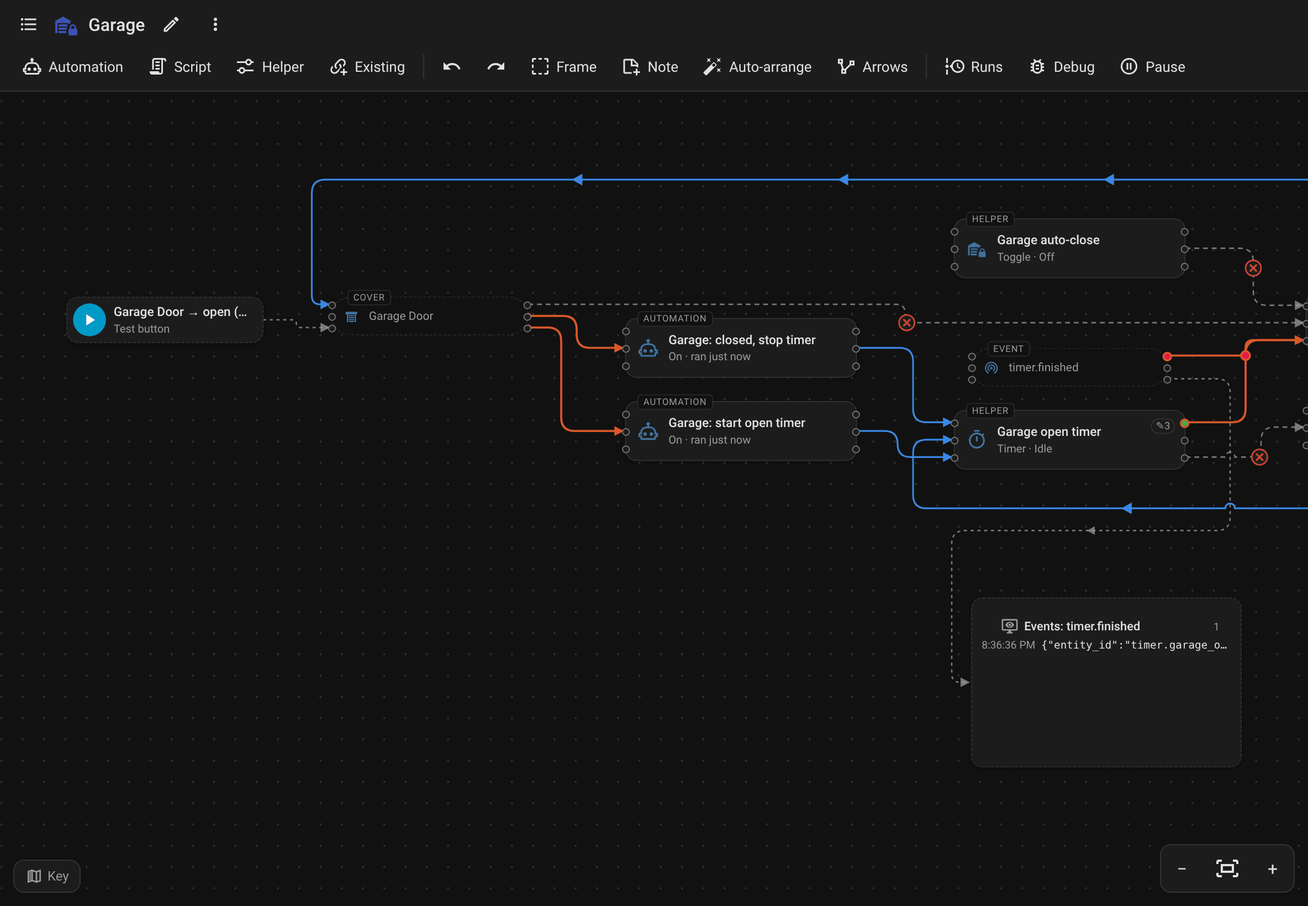
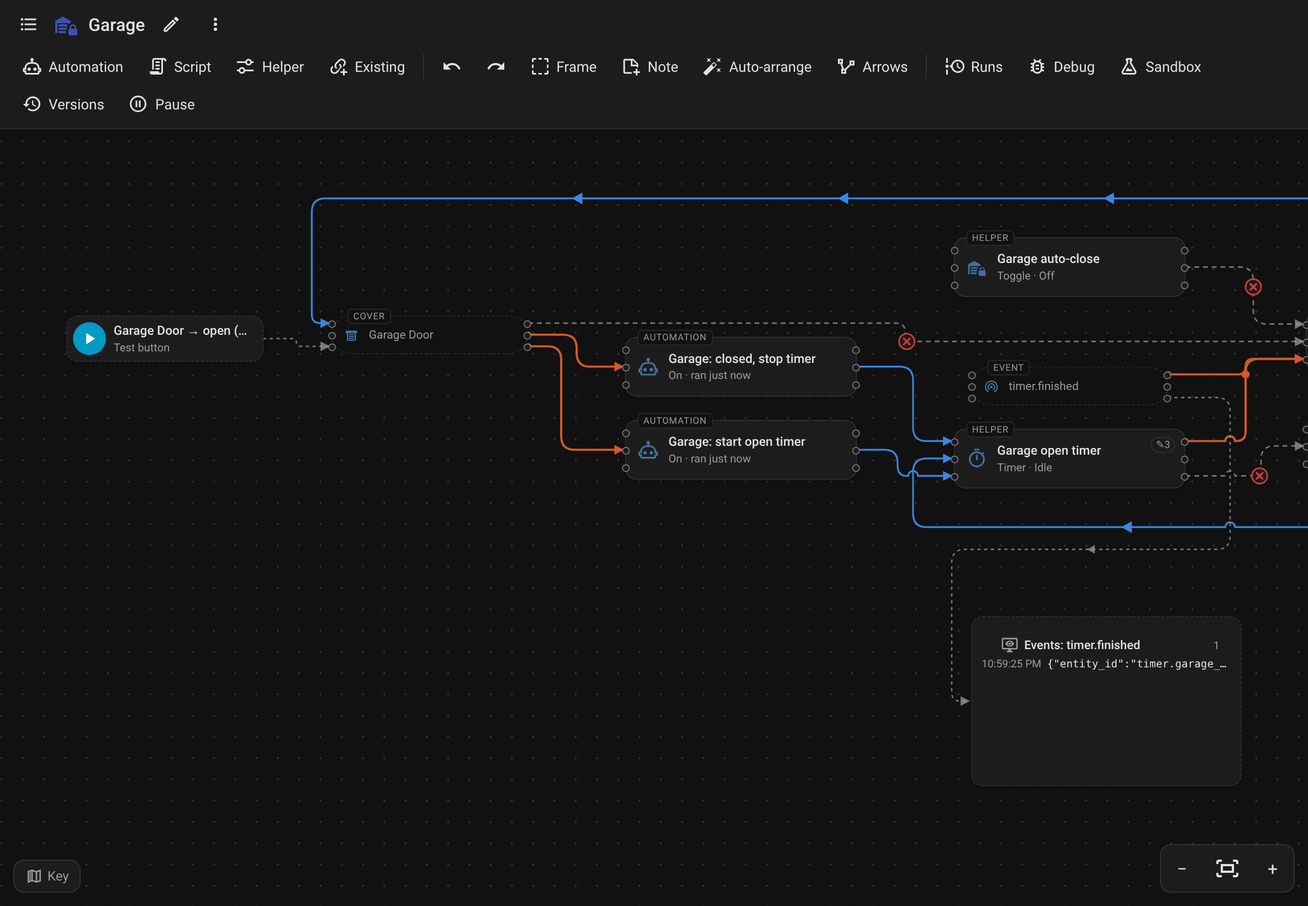
README: new pictures (sandbox flow, versions, top to bottom) and text; 0.8.1 Key fix
All README screenshots retaken from the demo setup. screens.js now also takes
the sandbox playing a run, a version open in a tab, and top to bottom; the
header picture is cropped to the whole function. In the Key, 'simulated
state' gets its own line with its mark (regress 0.8.1).

Claude-Session: https://claude.ai/code/session_01UsJvN5mwHgCutyzRGZv9XT

diff --git a/tests/e2e/screens.js b/tests/e2e/screens.js
@@ -64,12 +64,18 @@ const frame = (page, keys, kmax, room = 0) => el(page, (b, [keys, kmax, room]) =
 const list = (page, open) => el(page, (b, o) => { b._data.ui.list = o; b._renderList(); }, open);
 const key = (page, open) => el(page, (b, o) => { b._data.ui.legend = o; b._renderLegend(); }, open);
 const members = (page) => el(page, (b) => [...b._model.nodes.values()].filter((n) => n.kind === 'member').map((n) => n.key));
+// every box on the board, outside items too
+// the heart of the garage: the timer running out, "left open" checking auto-close, and the script closing the door
+const chain = (page) => el(page, (b, ks) => ks.concat([...b._model.nodes.keys()].filter((k) => k.startsWith('event:timer.finished'))), [TIMER, LEFT, AUTO, CLOSE]);
+const allBoxes = (page) => el(page, (b) => [...b._model.nodes.values()].filter((n) => n.kind !== 'tool').map((n) => n.key));
+// a narrower drawer, so the board beside it stays big enough to read (null: back to its own width)
+const drawerWidth = (page, w) => el(page, (b, w) => { b._$.drawer.style.width = w ? w + 'px' : ''; b._fitLitbar(); }, w);
 
 (async () => {
   fs.mkdirSync(OUT, { recursive: true });
   const browser = await chromium.launch();
   const { ctx, page } = await session(browser, 'owner', { viewport: { width: W, height: H }, scale: 2 });
-  page.allowFail = [/^trace\/get$/];
+  page.allowFail = [/^trace\/get$/, /^automation\/config$/];
   await page.goto(BASE + '/');
   await ready(page);
   await reset(page);
@@ -97,9 +103,22 @@ const members = (page) => el(page, (b) => [...b._model.nodes.values()].filter((n
   await key(page, false);
   await until(() => el(page, (b) => b._cond && b._cond.size > 0), 8000);
   await page.waitForTimeout(600);
-  await frame(page, await members(page), 1.2);
+  // the whole function as wide as it goes (the list closed), cropped to the toolbar and the boxes' height
+  await list(page, false);
+  await page.waitForTimeout(400);
+  const hero = await el(page, (b, keys) => {
+    const ns = keys.map((x) => b._model.nodes.get(x)).filter(Boolean);
+    const x0 = Math.min(...ns.map((n) => n.x)), x1 = Math.max(...ns.map((n) => n.x + n.w)), y0 = Math.min(...ns.map((n) => n.y)), y1 = Math.max(...ns.map((n) => n.y + n.h));
+    const vw = b._$.vp.clientWidth, k = Math.min(1.2, (vw - 80) / (x1 - x0)), top = 70;
+    b._view = { k, x: vw / 2 - ((x0 + x1) / 2) * k, y: top - y0 * k };
+    b._applyView();
+    const vp = b._$.vp.getBoundingClientRect(), host = b.getBoundingClientRect();
+    return { x: host.x, y: host.y, width: host.width, height: vp.top - host.top + top + (y1 - y0) * k + 80 };
+  }, await allBoxes(page));
+  await page.mouse.move(W - 2, H - 2);
   await page.waitForTimeout(800);
-  await shot(page, 'board', await rect(page, null));
+  await shot(page, 'board', hero);
+  await list(page, true);
 
   // the Key: what boxes, arrows and marks mean
   await key(page, true);
@@ -204,8 +223,95 @@ const members = (page) => el(page, (b) => [...b._model.nodes.values()].filter((n
     await phone.ctx.close();
   }
 
-  // put the garage back at rest, the board without its tools, and the integration in its default mode
-  await el(page, (b) => (b._layout(b._data.ui.current).tools || []).map((t) => t.id).forEach((id) => b._delTool(id)));
+  // the board without its tools from here on
+  await el(page, (b) => { b._closeDrawer(); b._select(null); (b._layout(b._data.ui.current).tools || []).map((t) => t.id).forEach((id) => b._delTool(id)); });
+  await rest(page);
+  await page.waitForTimeout(800);
+
+  // the sandbox: auto-close on and the door opened, in the sandbox only; Next runs the clock to the timer
+  // finishing, and what that sets off plays on the board (here at its last step, the door closing)
+  if (!only || only.test('sandbox')) {
+    await fbq(page, '.tools [data-act="sandbox"]').click();
+    await fbq(page, '.modal [data-act="sbx-start"]').click({ timeout: 3000 }).catch(() => {});
+    await fbq(page, '.drawer .sbctl .sbent').waitFor({ timeout: 10000 });
+    await drawerWidth(page, 600);
+    const sbxIdle = () => until(() => el(page, (b) => (!b._sbx.busy && (!b._flow || b._flow.at === b._flow.steps.length - 1)) || null), 20000);
+    await fbq(page, '.drawer .sbent').selectOption(AUTO);
+    await fbq(page, '.drawer .sbval-sel').selectOption('on');
+    await fbq(page, '.drawer [data-act="sbx-set"]').click();
+    await sbxIdle();
+    await fbq(page, '.drawer .sbent').selectOption(DOOR);
+    await fbq(page, '.drawer .sbval-sel').selectOption('open');
+    await fbq(page, '.drawer [data-act="sbx-set"]').click();
+    await sbxIdle();
+    await fbq(page, '.drawer [data-act="sbx-next"]').click();
+    await sbxIdle();
+    await page.waitForTimeout(1200);
+    await frame(page, await chain(page), 1.1, 110);
+    await page.waitForTimeout(900);
+    await shot(page, 'sandbox', await rect(page, null));
+    await drawerWidth(page, null);
+    await fbq(page, '.litbar [data-act="lit-clear"]').click().catch(() => {});
+    await el(page, (b) => b._closeDrawer());
+    await until(() => el(page, (b) => !b._sbx || null), 8000);
+  }
+
+  // top to bottom, then back
+  if (!only || only.test('down')) {
+    await el(page, (b) => b._setDir('down'));
+    await page.waitForTimeout(800);
+    await frame(page, await allBoxes(page), 1.2);
+    await page.waitForTimeout(600);
+    await shot(page, 'down', await rect(page, '.main'));
+    await el(page, (b) => b._setDir('right'));
+    await page.waitForTimeout(600);
+  }
+
+  // versions: one saved as the test config has it, then the function grows (an automation closing the door at
+  // night, the left-open message changed) and that's saved too; the first opened in a tab shows what differs
+  if (!only || only.test('versions')) {
+    const label = await el(page, (b) => b._data.ui.current);
+    const left0 = await api(page, 'GET', 'config/automation/config/2002');
+    const save = async (name, desc) => {
+      const n = await el(page, (b) => b._$.drawer.querySelectorAll('.vlist .vrow:not(.cur)').length);
+      await fbq(page, '.drawer [data-act="ver-new"]').click();
+      await fbq(page, '.modal input[name="vname"]').fill(name);
+      await fbq(page, '.modal textarea[name="vdesc"]').fill(desc);
+      await fbq(page, '.modal [data-act="ver-save"]').click();
+      await until(() => el(page, (b, n) => b._$.drawer.querySelectorAll('.vlist .vrow:not(.cur)').length > n || null, n), 10000);
+    };
+    await fbq(page, '.tools [data-act="versions"]').click();
+    await fbq(page, '.drawer .vlist .vrow.cur').waitFor({ timeout: 10000 });
+    await drawerWidth(page, 560);
+    await save('Reminder only', 'A note after 15 minutes open; closes only with auto-close on.');
+    await api(page, 'POST', 'config/automation/config/2002', Object.assign({}, left0, { actions: left0.actions.map((a) => (a.action === 'persistent_notification.create' ? Object.assign({}, a, { data: Object.assign({}, a.data, { message: 'The garage door was left open. Auto-close will close it if it is on.' }) }) : a)) }));
+    await api(page, 'POST', 'config/automation/config/fbshot1', { alias: 'Garage: close at night', triggers: [{ trigger: 'time', at: '22:00:00' }], conditions: [{ condition: 'state', entity_id: DOOR, state: 'open' }], actions: [{ action: 'script.close_garage' }] });
+    await until(() => page.evaluate(() => !!document.querySelector('home-assistant').hass.states['automation.garage_close_at_night']) || null, 10000);
+    await ws(page, { type: 'config/entity_registry/update', entity_id: 'automation.garage_close_at_night', labels: [label] });
+    await until(() => el(page, (b) => (b._model && b._model.nodes.has('automation.garage_close_at_night')) || null), 10000);
+    await page.waitForTimeout(1000);
+    await save('Close at night', 'Closes the door at 10 pm if it is still open; new left-open message.');
+    const first = await el(page, (b) => [...b._$.drawer.querySelectorAll('.vlist .vrow:not(.cur)')].find((r) => /Reminder only/.test(r.textContent)).dataset.id);
+    await fbq(page, `.drawer [data-act="ver-open"][data-id="${first}"]`).click();
+    await until(() => el(page, (b) => (b._ver && b._model && b._$.board.classList.contains('vview')) || null), 15000);
+    await page.waitForTimeout(1200);
+    // below the version's banner
+    await frame(page, await chain(page), 1.0);
+    await el(page, (b) => { b._view.y += 40; b._applyView(); });
+    await page.waitForTimeout(800);
+    await shot(page, 'versions', await rect(page, null));
+    await drawerWidth(page, null);
+    // back to Now, the test config as it was, and no versions left
+    await fbq(page, '.vtabs .vtab').first().click();
+    await until(() => el(page, (b) => !b._ver || null), 10000);
+    await api(page, 'POST', 'config/automation/config/2002', left0);
+    await api(page, 'DELETE', 'config/automation/config/fbshot1');
+    const vs = await ws(page, { type: 'functions_board/versions', label });
+    for (const v of (vs.versions || vs || [])) await ws(page, { type: 'functions_board/version_delete', label, version_id: v.id });
+    await el(page, (b) => b._closeDrawer());
+  }
+
+  // put the garage back at rest, and the integration in its default mode
   await list(page, true);
   await rest(page);
   await setMode(page, 'organise');

diff --git a/custom_components/functions_board/frontend/functions-board.js b/custom_components/functions_board/frontend/functions-board.js
@@ -1,5 +1,5 @@
 /*!
- * Functions board v0.8.0 (prototype) for Home Assistant
+ * Functions board v0.8.1 (prototype) for Home Assistant
  *
  * One page per "function": every automation, script, helper and device that makes one job work,
  * grouped by a Home Assistant label and wired together from their own configs.
@@ -13,7 +13,7 @@
  */
 (() => {
   'use strict';
-  const VERSION = '0.8.0';
+  const VERSION = '0.8.1';
   const loaded = customElements.get('functions-board');
   if (loaded) {
     if (loaded.VERSION !== VERSION) {
@@ -2565,7 +2565,7 @@ button:focus-visible,.chip:focus-visible,.mi:focus-visible{outline:2px solid var
       outside_item_it_touches: 'outside item it touches',
       unavailable: 'unavailable &nbsp;',
       last_run_failed: 'last run failed &nbsp;',
-      a_check_passes_or_fails: 'a check passes or fails right now &nbsp;',
+      a_check_passes_or_fails: 'a check passes or fails right now',
       simulated_state: 'simulated state',
       show_outside_items: 'Show outside items',
       show_related_suggestions: 'Show related suggestions',
@@ -6135,7 +6135,7 @@ button:focus-visible,.chip:focus-visible,.mi:focus-visible{outline:2px solid var
         + (open ? `<div class="lg">${line('role-trigger')}<span>${T('triggers')}</span>${line('role-condition')}<span>${T('is_checked_or_read_by')}</span>${line('role-action')}<span>${T('changes_2')}</span>${line('role-call')}<span>${T('runs_script_call')}</span>${line('role-source')}<span>${T('is_read_by_a_helper')}</span>${line('loop')}<span>${T('loop_can_retrigger_itself')}</span>${line('role-tool')}<span>${T('a_test_button_or_a')}</span>`
           + `<svg width="38" height="14"><path d="M4,3 L16,3 L16,11 L30,11"></path><path d="M16,3 L30,3"></path><circle cx="16" cy="3" r="2.6" style="fill:var(--fb-edge)"></circle></svg><span>${T('one_line_that_branches_dot')}</span>`
           + `<svg width="38" height="14"><path d="M19,1 L19,13"></path><path d="M4,8 L15,8 A4,4 0 0 1 23,8 L34,8"></path></svg><span>${T('crosses_without_meeting')}</span>`
-          + `<svg width="38" height="14"><path d="M4,7 L34,7"></path><path class="ah" d="M15,7 L23,2.5 L23,11.5 z"></path></svg><span>${T('runs_back')}</span></div><div class="lgn"><span class="sw dashed"></span>${T('related_not_in_this_function')}<br><span class="sw pill"></span>${T('outside_item_it_touches')}<br><span class="sw st amber"></span>${T('unavailable')}<span class="sw st red"></span>${T('last_run_failed')}<span class="sw st blue"></span>${T('running')}<br><span class="cres-k ok">✓</span><span class="cres-k bad">✕</span> ${T('a_check_passes_or_fails')}<span class="sw dashed2"></span>${T('simulated_state')}${this._sbxOn() ? `<br><span class="sw sbk"></span>${T('sbx_changed_key')}<br><span class="sw sbg"></span>${T('sbx_ghost_key')}` : ''}</div><label class="tg"><input type="checkbox" data-tog="outside" ${u.outside ? 'checked' : ''}>${T('show_outside_items')}</label><label class="tg"><input type="checkbox" data-tog="suggest" ${u.suggest ? 'checked' : ''}>${T('show_related_suggestions')}</label><label class="tg" title="${T('reads_your_node_red_app')}"><input type="checkbox" data-nr ${u0.nodered === true ? 'checked' : ''}>${T('show_node_red_flows')}</label>${u0.nodered === true && this._nrCache && this._nrCache.err ? `<div class="lgerr">${esc(this._nrCache.err)}${this._nrCache.need ? ` <button class="lgbtn" data-act="nr-open">${T('open_node_red')}</button>` : ''}</div>` : ''}` : '');
+          + `<svg width="38" height="14"><path d="M4,7 L34,7"></path><path class="ah" d="M15,7 L23,2.5 L23,11.5 z"></path></svg><span>${T('runs_back')}</span></div><div class="lgn"><span class="sw dashed"></span>${T('related_not_in_this_function')}<br><span class="sw pill"></span>${T('outside_item_it_touches')}<br><span class="sw st amber"></span>${T('unavailable')}<span class="sw st red"></span>${T('last_run_failed')}<span class="sw st blue"></span>${T('running')}<br><span class="cres-k ok">✓</span><span class="cres-k bad">✕</span> ${T('a_check_passes_or_fails')}<br><span class="sw dashed2"></span>${T('simulated_state')}${this._sbxOn() ? `<br><span class="sw sbk"></span>${T('sbx_changed_key')}<br><span class="sw sbg"></span>${T('sbx_ghost_key')}` : ''}</div><label class="tg"><input type="checkbox" data-tog="outside" ${u.outside ? 'checked' : ''}>${T('show_outside_items')}</label><label class="tg"><input type="checkbox" data-tog="suggest" ${u.suggest ? 'checked' : ''}>${T('show_related_suggestions')}</label><label class="tg" title="${T('reads_your_node_red_app')}"><input type="checkbox" data-nr ${u0.nodered === true ? 'checked' : ''}>${T('show_node_red_flows')}</label>${u0.nodered === true && this._nrCache && this._nrCache.err ? `<div class="lgerr">${esc(this._nrCache.err)}${this._nrCache.need ? ` <button class="lgbtn" data-act="nr-open">${T('open_node_red')}</button>` : ''}</div>` : ''}` : '');
     }
 
     /* ---------- view ---------- */

diff --git a/tests/e2e/regress.test.js b/tests/e2e/regress.test.js
@@ -1109,6 +1109,22 @@ test('0.7.2 shared lines: point at a box to trace its arrow, select it to keep i
   check('0.7.2 no errors', page.logs.length === 0, page.logs);
 });
 
+test('0.8.1 the Key: "simulated state" is on the same line as its mark', async (browser) => {
+  const { page } = await imported(browser);
+  await openFn(page, /garage/i);
+  await el(page, (b) => { b._data.ui.legend = true; b._renderLegend(); });
+  await page.waitForTimeout(300);
+  const k = await el(page, (b) => {
+    const mark = b.shadowRoot.querySelector('.legend .sw.dashed2'), text = mark && mark.nextSibling;
+    if (!mark || !text) return null;
+    const r = document.createRange(); r.selectNodeContents(text);
+    const m = mark.getBoundingClientRect(), t = r.getBoundingClientRect();
+    return { mark: [m.left, m.top, m.bottom], text: [t.left, t.top, t.bottom], words: text.textContent };
+  });
+  check('0.8.1 the simulated-state mark sits just before its words, on their line', !!k && k.text[0] - k.mark[0] < 60 && k.text[0] > k.mark[0] && Math.abs((k.mark[1] + k.mark[2]) / 2 - (k.text[1] + k.text[2]) / 2) < 10, k);
+  check('0.8.1 no errors', page.logs.length === 0, page.logs);
+});
+
 (async () => {
   const browser = await chromium.launch();
   for (const [name, fn] of cases) {

diff --git a/README.md b/README.md
@@ -2,7 +2,7 @@
 
 A sidebar page for Home Assistant that shows each **function** in your home (the garage, the morning routine, the furnace filter) as one board: every automation, script, helper and device that makes it work, wired together from their own configs.
 
-![The Garage function: the door starts a timer, the timer finishing runs "Garage: left open", which calls the "Close garage" script. Arrows are coloured by what they do and run square-cornered from left to right; ticks and crosses on them show which checks pass right now.](https://raw.githubusercontent.com/ToolAndDieGuy/functions-board/main/docs/images/board.png)
+![The Garage function: the garage door starts a timer, the timer finishing runs "Garage: left open", which checks auto-close and calls the "Close garage" script, which closes the door. Arrows are coloured by what they do and run square-cornered from left to right; crosses on them show checks that fail right now.](https://raw.githubusercontent.com/ToolAndDieGuy/functions-board/main/docs/images/board.png)
 
 > **Prototype.** It runs on a real, busy setup, but expect rough edges. Issues and ideas are welcome.
 
@@ -14,7 +14,7 @@ Home Assistant files things by type: automations in one list, scripts in another
 
 - **One board per function.** A function is a Home Assistant label. Everything carrying it is on the board, and still lives in its usual place under Settings.
 - **Arrows read from your configs:** what triggers each automation, what it checks, what it changes and which scripts it runs, including area, floor and label targets, purpose-specific triggers (a light turning on, a door opening), what template and other derived helpers read, scenes and groups, and the buttons on a notification with the automations that answer them. Blueprint automations are read as Home Assistant fills them in. Real loops (an automation whose own effects can set it off again) are marked.
-- **Laid out for you:** arrows are coloured by what they do (orange sets something off, blue changes it, aqua runs a script) and run square-cornered from left to right in their own lanes, never alongside each other, from three points on each side of a box. Lines that share a point branch off it at a dot; point at a box (or select it) and its arrows are traced end to end through the shared line while the others fade; lines that cross without meeting hop over each other; arrows running back carry arrowheads along the way. Boxes line up with what they connect to, separate chains are packed together, and **Auto-arrange** lays out a function again at any time, and runs on every import; **Keep in place** in a box's bar leaves that box where you put it, and Undo puts your own arrangement back. **Arrows → Style → Curved arrows** brings back curved arrows.
+- **Laid out for you:** arrows are coloured by what they do (orange sets something off, blue changes it, aqua runs a script) and run square-cornered from left to right in their own lanes, never alongside each other, from three points on each side of a box. Lines that share a point branch off it at a dot; point at a box (or select it) and its arrows are traced end to end through the shared line while the others fade; lines that cross without meeting hop over each other; arrows running back carry arrowheads along the way. A function flows left to right, or top to bottom if you choose. Boxes line up with what they connect to, separate chains are packed together, and **Auto-arrange** lays out a function again at any time, and runs on every import; **Keep in place** in a box's bar leaves that box where you put it, and Undo puts your own arrangement back. **Arrows → Style → Curved arrows** brings back curved arrows.
 - **Click a box** to light up its chain; the **Arrows** menu chooses how far (upstream, downstream, both) and which kinds of arrow show. **Edit** in a box's bar, or a double-click, opens it in Home Assistant's own editor without leaving the board: an automation's or script's editor, a helper's settings, a scene's editor.
 - **Live:** states on every box, runs pulse as they happen, last-run failures and unavailable entities are flagged, and **Runs** lists every run in the function; picking one lights the arrows it actually used.
 - **Import** finds the functions already in your setup. It traces every automation and script and groups the ones that trigger, change or call each other, merged with the categories you already use, and shows what is left over. Import them all or one at a time, start from labels you already have, or pick items by hand.
@@ -25,8 +25,9 @@ Home Assistant files things by type: automations in one list, scripts in another
   - **Live checks** put a tick or a cross on each check arrow, and hovering an arrow that comes from a template shows its value now.
   - **Watch triggers** pulses an automation's trigger arrows whenever one would fire, without running it. With Pause, that's a dry run.
   - **Monitor boxes** list the last events of one type, or MQTT messages on a topic, while the function is open.
-  - The **sandbox** runs the function on a copy of its states, with its own clock: set a state, fire an event or run an automation, and watch what the function would do, step by step, without anything changing in your home. Works in either mode.
+  - The **sandbox** runs the function on a copy of its states, with its own clock: set a state, fire an event or run an automation, and watch what the function would do played on the board step by step, without anything changing in your home. Works in either mode.
   - **Tests** (Full manager only) change a helper, simulate a state, fire an event, send a notification, or run an automation or script. A test can be kept on the board as a button.
+- **Versions:** save a function as it is, with a name and a description, open a saved version in a tab beside what's there now, try it in the sandbox, and restore it (Full manager).
 - **Arrow editor** (Full manager only): drag from a box's dots (or from one box) onto another to add a trigger, a check, an action or a script call, chosen from Home Assistant's own lists. The YAML is shown and checked before it's saved. Click an arrow to remove what it stands for.
 - **Node-RED flows** (off until you switch them on in the board's Key): each wired group in a flow is a box, with arrows to what it triggers on, reads, changes and runs.
 - Works with the keyboard and screen readers, on a phone, and as a dashboard card. The board's text is kept in one table per language, so it can be translated (see [Translating](#translating)).
@@ -77,11 +78,13 @@ The screenshots come from the demo setup the tests run on: a garage door that st
 
 The **Auto-arrange** button's menu sets which way a function flows: **left to right** (the default) or **top to bottom**, like a sequential function chart: what sets things off at the top, arrows leaving each box by its bottom edge and entering the next by its top. Each function keeps its own direction. Switching lays the whole function out again and lets go of boxes kept in place (Undo puts it all back). A row that would get too wide wraps: inputs move up a row and end points down a row, so a script that drives thirty things doesn't make one row thirty boxes wide. The arrows follow the same rules both ways: never closer than 16 px, never through a box, a hop at every crossing.
 
+![The Garage function flowing top to bottom: the garage door at the top, the automations it sets off below it, then the timer, "Garage: left open" and the "Close garage" script, with arrows leaving each box by its bottom edge](https://raw.githubusercontent.com/ToolAndDieGuy/functions-board/main/docs/images/down.png)
+
 ### Sandbox
 
 **Sandbox** (in the function's toolbar) tries the function out on a copy of its states. Each time it opens, a dialog explains what it's for and everything it can't show you, to click through. Set a state, fire an event or run an automation (each picked from a list of what fits the function, with Other… for anything else), and the board shows what the function would do: what triggers, which conditions pass and why, what each action changes, and what that sets off next, lit up on the board and listed in the drawer. Nothing is sent to your devices, and the board goes back to your home's states when you close it.
 
-![The sandbox beside the Garage board: the door set to open started the open timer; 15 minutes on, the timer finished, "Garage: left open" ran, its condition passed, and auto-close being off stopped it from closing the door](https://raw.githubusercontent.com/ToolAndDieGuy/functions-board/main/docs/images/sandbox.png)
+![The sandbox beside the Garage board, with auto-close turned on and the door opened in the sandbox only. Next moved its clock to the timer finishing: "Garage: left open" ran, auto-close was on, "Close garage" closed the door and the timer was cancelled, sixteen numbered steps on the board and in the drawer, with ◀ ▶ Replay and Clear under the board](https://raw.githubusercontent.com/ToolAndDieGuy/functions-board/main/docs/images/sandbox.png)
 
 - **Its own clock.** Delays, timers, `for:` durations, time triggers and time patterns run on the sandbox clock: **+1 min**, **+10 min**, **+1 h**, or **Next** to jump to the next thing due. "Left open for 15 minutes, then close it" takes a click.
 - **Templates are real.** Home Assistant renders each template the way it would in a real run, but `states()`, `is_state()`, `state_attr()`, `states.x.y`, `states[...]`, `states | ...`, `expand()`, `now()` and the like read the sandbox's states and clock. A template that reads locations (`closest()`, `distance()`) is marked *partly real*.
@@ -94,6 +97,8 @@ The **Auto-arrange** button's menu sets which way a function flows: **left to ri
 ### Versions
 
 **Versions** (in the function's toolbar) keeps named snapshots of a function: the configs of its automations and scripts, its helpers' settings, what's in it, the devices its steps use, and its layout. Save one before you change things ("Winter timings", "Before the new sensor"), and the drawer marks whichever version the function matches right now.
+
+![A saved version, "Reminder only", open in a tab beside Now (active): a banner says it's not active and counts what changed since, "Garage: left open" is marked changed since, and the Versions drawer lists "Close at night" (active, the same as what's there now) and "Reminder only", each with Open, Try in sandbox, Restore, edit and delete](https://raw.githubusercontent.com/ToolAndDieGuy/functions-board/main/docs/images/versions.png)
 
 - **Open** a version in a tab beside **Now** (the active one, always marked). Its board is drawn from the saved configs, boxes that have changed since or are only in that version are marked, and nothing on it can change your home. The tab's ↗ opens it in a new window, to see it beside what's there now.
 - **Try in sandbox** runs the saved version in the sandbox, without restoring it.
@@ -204,7 +209,7 @@ To try a table without editing the file, add it from the browser console on the 
 
 ## Feedback
 
-This is a prototype (v0.8.0). Please open an [issue](https://github.com/ToolAndDieGuy/functions-board/issues) for bugs, wrong or missing arrows, or ideas. A screenshot of the board and the automation's YAML help a lot.
+This is a prototype (v0.8.1). Please open an [issue](https://github.com/ToolAndDieGuy/functions-board/issues) for bugs, wrong or missing arrows, or ideas. A screenshot of the board and the automation's YAML help a lot.
 
 ## Credits
 

diff --git a/CHANGELOG.md b/CHANGELOG.md
@@ -1,5 +1,13 @@
 # Changelog
 
+## 0.8.1 (2026-11-17)
+
+Fixed: in the **Key**, "simulated state" could wrap onto a line of its own, away from its mark. It now has its
+own line, with its mark.
+
+The README's pictures are new: the sandbox playing a run on the board, a version open in a tab, a function
+flowing top to bottom, and everything else as the board looks now.
+
 ## 0.8.0 (2026-11-17)
 
 New: **versions** of a function, to save it as it is, compare, try one in the sandbox, and switch back.
